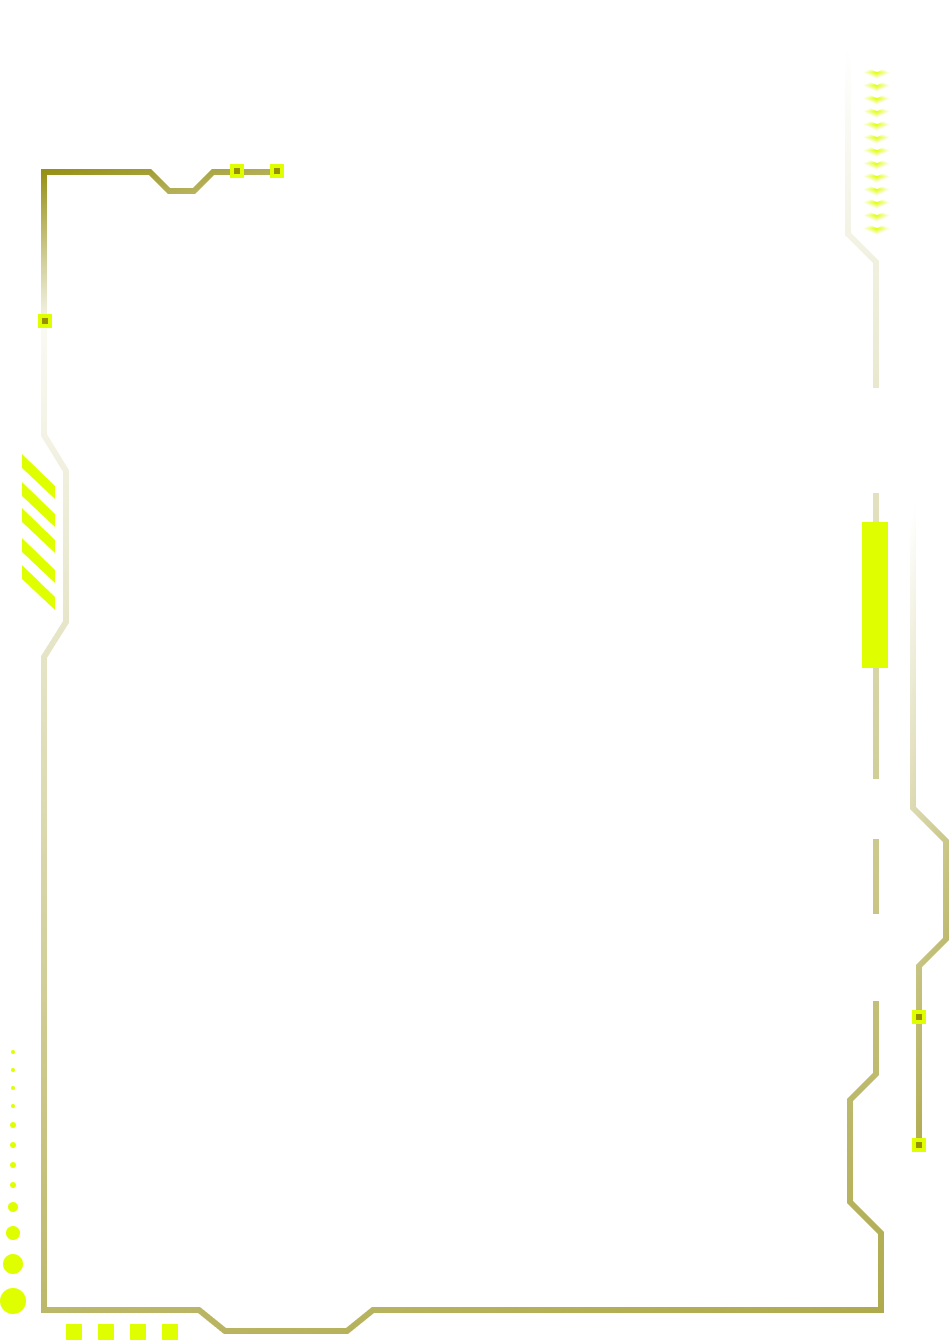
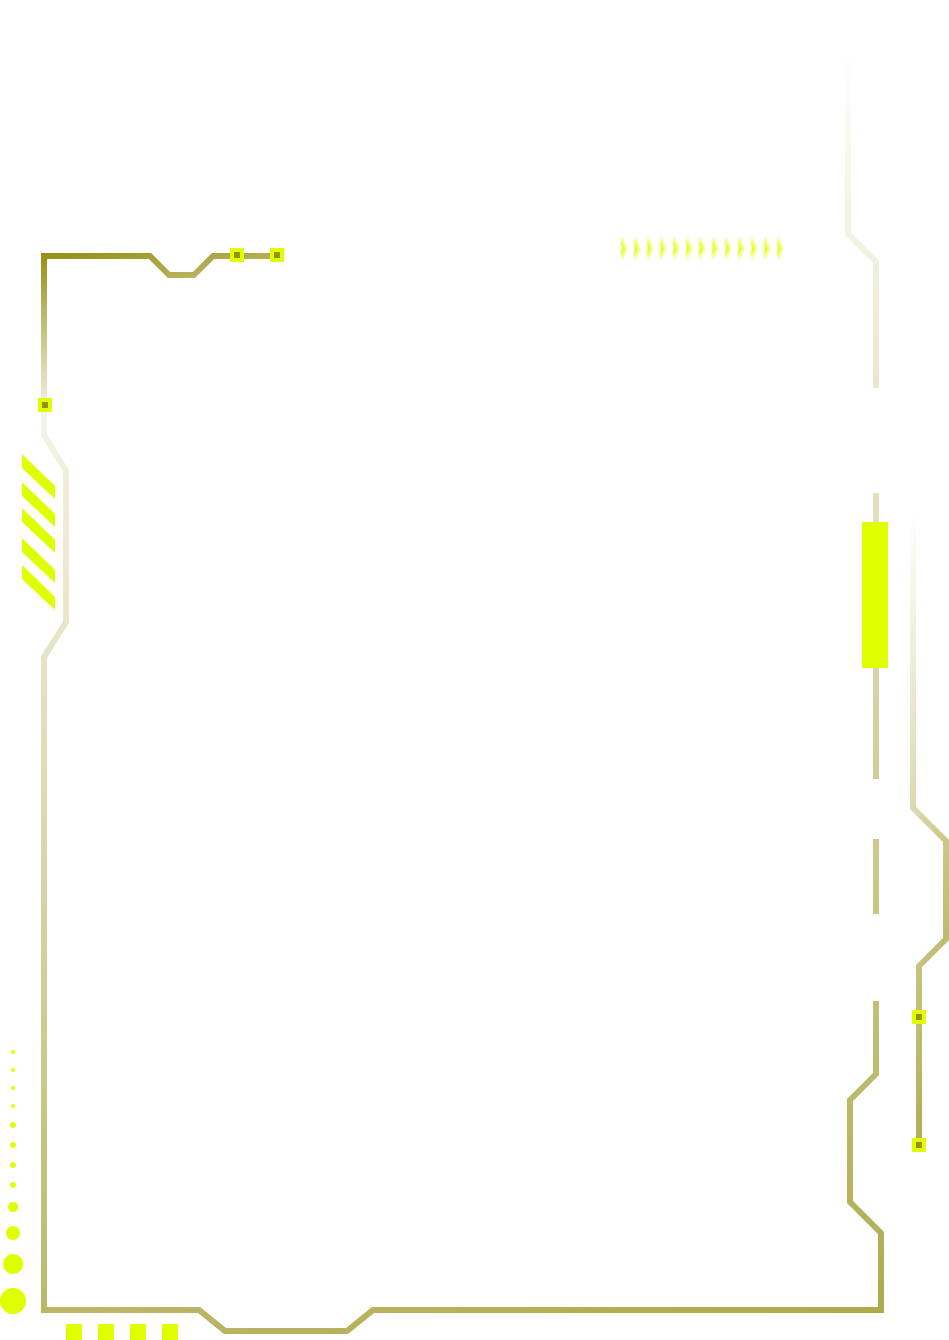
feat: update leaderboard UI 24feb

Changed region(s): [[0.0306, 0.1224, 0.3056, 0.306], [0.6417, 0.1836, 0.8251, 0.2142], [0.9168, 0.0612, 0.9473, 0.1836]]

diff --git a/app/src/pages/App/components/Leaderboard.js b/app/src/pages/App/components/Leaderboard.js
@@ -5,6 +5,7 @@ const tabs = [
   { id: 'pumpers', title: 'TOP PUMPERS' },
   { id: 'last-purchase', title: 'LAST PURCHASE' },
 ];
+const WIDTH = 450;
 const Leaderboard = ({ leaderboardData, topHoldersRewards, lastPurchaseRewards }) => {
   const [tab, setTab] = useState('pumpers');
 
@@ -25,13 +26,17 @@ const Leaderboard = ({ leaderboardData, topHoldersRewards, lastPurchaseRewards }
       pl={5}
       pr={6}
       pb={1}
-      width={400}
+      width={WIDTH}
       display="flex"
       flexDirection="column"
       gap={0.5}
-      sx={{ aspectRatio: '473/670', backgroundImage: 'url(/images/leaderboard-frame.png)', backgroundSize: 'contain' }}>
-      <Box bgcolor="#DFFF00" p={1}>
-        <Typography color="#12140D" align="center">
+      sx={{
+        aspectRatio: '949/1340',
+        backgroundImage: 'url(/images/leaderboard-frame.png)',
+        backgroundSize: 'contain',
+      }}>
+      <Box pt={`${WIDTH * 0.04}px`} pb={`${WIDTH * 0.02}px`}>
+        <Typography fontSize={18} color="#979000" align="center">
           LEADERBOARD
         </Typography>
       </Box>
@@ -40,29 +45,56 @@ const Leaderboard = ({ leaderboardData, topHoldersRewards, lastPurchaseRewards }
           <Box
             key={item.id}
             px={2}
-            pt={0.75}
-            pb={1.25}
+            py={0.75}
             flex={1}
             sx={{
               cursor: 'pointer',
-              backgroundImage:
-                tab === item.id
-                  ? 'linear-gradient(0deg, #DFFF00 -25%, rgba(223, 255, 0, 0) 100%)'
-                  : 'linear-gradient(0deg, #979000 -185%, rgba(151, 144, 0, 0) 100%);',
+              backgroundColor: tab === item.id ? '#DFFF00' : '#979000',
             }}
             onClick={() => setTab(item.id)}>
-            <Typography fontSize={13} color={tab === item.id ? '#DFFF00' : '#979000'} align="center">
+            <Typography fontSize={13} color="#12140D" align="center">
               {item.title}
             </Typography>
           </Box>
         ))}
-        <Box position="absolute" sx={{ bottom: 10 }}>
-          <TableHeader title="Name" sx={{ left: 50 }} />
-          <TableHeader title="Nodes" sx={{ left: 137 }} />
-          <TableHeader title="Profit" sx={{ left: 240 }} />
-        </Box>
       </Box>
-      <Box sx={{ overflowY: 'scroll', height: 375 }}>
+      <Box sx={{ position: 'relative', height: 14 }}>
+        <Typography
+          color="#DFFF00"
+          fontSize={7}
+          align="center"
+          lineHeight={2}
+          textTransform="uppercase"
+          sx={{ position: 'absolute', left: 60 }}>
+          Name
+        </Typography>
+        <Typography
+          color="#DFFF00"
+          fontSize={7}
+          align="center"
+          lineHeight={2}
+          textTransform="uppercase"
+          sx={{ position: 'absolute', left: 146 }}>
+          Nodes
+        </Typography>
+        <Typography
+          color="#DFFF00"
+          fontSize={7}
+          align="center"
+          lineHeight={2}
+          textTransform="uppercase"
+          sx={{ position: 'absolute', left: 256 }}>
+          Profit
+        </Typography>
+      </Box>
+      <Box
+        mx={-0.5}
+        px={0.5}
+        sx={{
+          overflowY: 'scroll',
+          height: WIDTH * 0.93,
+          backgroundImage: 'linear-gradient(0deg, #191B11 0%, rgba(25, 27, 17, 0) 100%)',
+        }}>
         {data.map((gamePlay, index) => (
           <Grid
             container
@@ -111,22 +143,5 @@ const Leaderboard = ({ leaderboardData, topHoldersRewards, lastPurchaseRewards }
     </Box>
   );
 };
-
-const TableHeader = ({ title, sx }) => (
-  <Box
-    sx={{
-      position: 'absolute',
-      width: 40,
-      borderBottom: '12px solid #1b1f1d',
-      borderLeft: '5px solid transparent',
-      borderRight: '5px solid transparent',
-      height: 0,
-      ...sx,
-    }}>
-    <Typography color="#979000" fontSize={7} align="center" lineHeight={2} textTransform="uppercase">
-      {title}
-    </Typography>
-  </Box>
-);
 
 export default Leaderboard;
